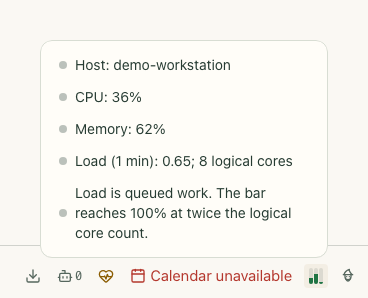
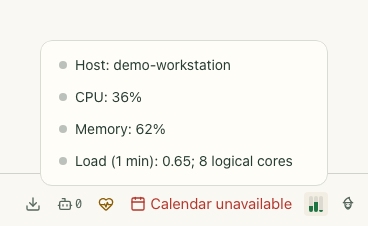
fix(resource): drop the load explainer bullet from the pane

diff --git a/plugins/heinzel-resource/docs/assets/screenshots/index.html b/plugins/heinzel-resource/docs/assets/screenshots/index.html
@@ -1,1 +1,1 @@
-<!doctype html><html lang="en"><meta charset="utf-8"><meta name="viewport" content="width=device-width"><title>heinzel-resource screenshots</title><style>body{font:16px/1.6 system-ui;margin:2rem;background:#faf8f3;color:#263b32}main{display:grid;grid-template-columns:repeat(auto-fit,minmax(min(100%,420px),1fr));gap:1rem}figure{margin:0;padding:1rem;background:white;border:1px solid #d8ddd3;border-radius:12px}img{width:100%;height:auto}figcaption{margin-top:.75rem}a:focus-visible{outline:3px solid #a64028}</style><h1>heinzel-resource</h1><p>Isolated demonstration profile · Core 0.9.16 · Review these captures before committing. Click an image to inspect it at full size.</p><main><figure><a href="resources-pane.png"><img src="resources-pane.png" alt="CPU, memory and scaled load in the expanded monitor — fictional demo workstation"></a><figcaption>UI · CPU, memory and scaled load in the expanded monitor — fictional demo workstation</figcaption></figure><figure><a href="today-resources.png"><img src="today-resources.png" alt="A quick CPU summary on Today, with three compact footer meters — demonstration values"></a><figcaption>UI · A quick CPU summary on Today, with three compact footer meters — demonstration values</figcaption></figure><figure><a href="phone-resources.png"><img src="phone-resources.png" alt="Read CPU, memory and queued load on a phone — fictional demo workstation"></a><figcaption>UI · Read CPU, memory and queued load on a phone — fictional demo workstation</figcaption></figure><figure><a href="cli-resources.png"><img src="cli-resources.png" alt="The same fictional CPU, memory and raw load measurements in the CLI"></a><figcaption>CLI · The same fictional CPU, memory and raw load measurements in the CLI</figcaption></figure><figure><a href="terminal-resources.png"><img src="terminal-resources.png" alt="Check CPU, memory, raw load and core count in the app terminal — fictional demo-workstation values"></a><figcaption>UI · Check CPU, memory, raw load and core count in the app terminal — fictional demo-workstation values</figcaption></figure><figure><a href="terminal-resources-json.png"><img src="terminal-resources-json.png" alt="Inspect the structured resource sample for automation in the app terminal — fictional demo-workstation data"></a><figcaption>UI · Inspect the structured resource sample for automation in the app terminal — fictional demo-workstation data</figcaption></figure></main></html>
+<!doctype html><html lang="en"><meta charset="utf-8"><meta name="viewport" content="width=device-width"><title>heinzel-resource screenshots</title><style>body{font:16px/1.6 system-ui;margin:2rem;background:#faf8f3;color:#263b32}main{display:grid;grid-template-columns:repeat(auto-fit,minmax(min(100%,420px),1fr));gap:1rem}figure{margin:0;padding:1rem;background:white;border:1px solid #d8ddd3;border-radius:12px}img{width:100%;height:auto}figcaption{margin-top:.75rem}a:focus-visible{outline:3px solid #a64028}</style><h1>heinzel-resource</h1><p>Isolated demonstration profile · Core 0.9.16 · Review these captures before committing. Click an image to inspect it at full size.</p><main><figure><a href="resources-pane.png"><img src="resources-pane.png" alt="CPU, memory and one-minute load with the core count in the expanded monitor — fictional demo workstation"></a><figcaption>UI · CPU, memory and one-minute load with the core count in the expanded monitor — fictional demo workstation</figcaption></figure><figure><a href="today-resources.png"><img src="today-resources.png" alt="A quick CPU summary on Today, with three compact footer meters — demonstration values"></a><figcaption>UI · A quick CPU summary on Today, with three compact footer meters — demonstration values</figcaption></figure><figure><a href="phone-resources.png"><img src="phone-resources.png" alt="Read CPU, memory and one-minute load on a phone — fictional demo workstation"></a><figcaption>UI · Read CPU, memory and one-minute load on a phone — fictional demo workstation</figcaption></figure><figure><a href="cli-resources.png"><img src="cli-resources.png" alt="Fictional CPU, memory, raw load and core count in the terminal"></a><figcaption>CLI · Fictional CPU, memory, raw load and core count in the terminal</figcaption></figure><figure><a href="cli-resources-json.png"><img src="cli-resources-json.png" alt="The fictional resource sample as JSON for automation"></a><figcaption>CLI · The fictional resource sample as JSON for automation</figcaption></figure></main></html>

diff --git a/plugins/heinzel-resource/tests/unit/resources_test.py b/plugins/heinzel-resource/tests/unit/resources_test.py
@@ -147,7 +147,7 @@ def test_visualizer_keeps_percentages_and_load_capacity_distinct(probe, cpu, loa
     assert [meter.value for meter in status.meters] == pytest.approx([cpu, 40, min(100, load * 5)])
     assert status.meters[2].tone == load_tone
     assert "workshop.local" in status.detail[0].text
-    assert any("twice the logical core count" in line.text for line in status.detail)
+    assert not any("queued work" in line.text or "twice the logical core count" in line.text for line in status.detail)
     assert overview(sample).value == f"CPU {cpu}%"
     assert sampling(ResourceService())[0].status.value == "up"
 

diff --git a/plugins/heinzel-resource/src/heinzel_resource/__init__.py b/plugins/heinzel-resource/src/heinzel_resource/__init__.py
@@ -153,7 +153,6 @@ def machine(sample: Resources) -> StatusItem:
             DetailLine(text=f"CPU: {_percent(sample.cpu_percent)}"),
             DetailLine(text=f"Memory: {_percent(sample.memory_percent)}"),
             DetailLine(text=f"Load (1 min): {load}; {sample.logical_cores or '?'} logical cores"),
-            DetailLine(text="Load is queued work. The bar reaches 100% at twice the logical core count."),
             *[DetailLine(text=problem[:80], tone="warn") for problem in sample.problems],
         ],
     )

diff --git a/plugins/heinzel-resource/docs/SCREENSHOT_STORY.md b/plugins/heinzel-resource/docs/SCREENSHOT_STORY.md
@@ -1,43 +1,36 @@
-## Audience
+## Audience and outcome
 
-Someone deciding whether to install System Resources who wants a quick picture of the computer running Heinzel and a way to retrieve the same measurements in a command or automation.
-
-## Outcome
-
-Show how a glance at Today and the footer leads to a useful expanded monitor, then show the underlying sample in the CLI and app terminal. The readings are a fictional demonstration, not a claim about the viewer’s machine.
+For someone deciding whether to install System Resources: see at a glance whether the machine running Heinzel is busy, open the footer monitor for context, and retrieve the same sample in a terminal or as JSON. The README says the plugin is included in the standard app (`README.md`; `pyproject.toml`, `[tool.heinzel.plugin]`).
 
 ## Scenes
 
-1. **Expanded resources:** In light appearance, open the footer’s computer-resources status to show CPU, memory, scaled load, hostname, and the explanation of the load bar. This is the central feature view.
-2. **Today at a glance:** In dark appearance, show the CPU widget together with the compact footer meters. This is a different useful state of the same Core UI, not a duplicate of the expanded monitor.
-3. **Phone monitor:** Open the resources detail at a narrow viewport to show that the same readings can be inspected on a phone. Review the result for meaningful mobile layout; reject it if it merely duplicates the desktop crop.
-4. **CLI sample:** Show `hz resource` as a native CLI result, with the fictional hostname, CPU, memory, raw one-minute load, and logical cores.
-5. **App terminal table:** Run `hz resource` in the app terminal to show an interactive route to the sample.
-6. **App terminal JSON:** Run `hz resource --json` in the app terminal to show the structured form useful for automation. These two terminal captures demonstrate different parameter cases of the single operation; neither is presented as feature UI.
+1. **Expanded monitor, light:** open the genuine footer contribution to see fictional CPU and memory percentages, one-minute load and logical cores together. The load meter is scaled; the detail line reports raw load.
+2. **Today and footer, dark:** show the fictional CPU summary in the Today widget alongside the three footer meters, demonstrating the useful at-a-glance state.
+3. **Phone monitor:** show the same genuine monitor at a narrow viewport, including its fictional host and measurements. This demonstrates the responsive flow rather than claiming another feature.
+4. **Native terminal table:** run `hz resource` to show the fictional hostname, CPU, memory, raw one-minute load and logical cores.
+5. **Native terminal JSON:** run `hz resource --json` to show the structured fictional sample for automation. This is a second parameter case of the same operation.
 
 ## Fictional fixtures
 
-The existing `docs/screenshot_fixture.py` replaces `ResourceService.sample` during explicit capture with `demo-workstation`, CPU 36%, memory 62%, one-minute load 0.65, eight logical cores, no problems, and a fixed UTC sample time. The scaled load meter is derived from that sample; it is not the raw load value. The plan uses this existing bootstrap and a matching browser time. No fixture file needs to be invented.
-
-Normal presentation fictionalization is explicitly permitted for verified owning-interpreter paths, which become `/demo-profile/.venv`, and for only the verified whole hostname detail in the genuine Doctor row, which becomes `demo-host`. These mappings change no SDK health status or remaining detail and establish no privacy acceptance. Unknown identities still fail, and independent review must inspect every image and transcript.
-
-## Privacy pitfalls
-
-The fixture substitutes resource readings, but other Core surfaces, Doctor output, paths, terminal transcripts, and surrounding profile data can still reveal real identities or machine details. Do not generalize the two permitted mappings to unverified paths, partial hostname matches, other rows, or other identities. Inspect every image and transcript independently before publication; fail on unknown identities. A dismissed Doctor banner is not proof that no sensitive detail remains elsewhere.
+The existing `docs/screenshot_fixture.py` replaces `ResourceService.sample` during explicit capture with a fictional `demo-workstation`: CPU 36%, memory 62%, one-minute load 0.65, eight logical cores, no problems, and a fixed UTC sample time. It launches the actual Heinzel entrypoint. The plan retains that bootstrap and fixed browser time; it does not introduce fixture files.
 
 ## Source-bound UI surface inventory
 
-- `pyproject.toml`, `[project.entry-points."heinzel.modules"]`, declares `resource = "heinzel_resource"`. The actual entrypoint in `src/heinzel_resource/__init__.py` constructs `module = Module("resource", ...)` and registers `ResourceService`.
-- `@module.operation(render=render, audience="everyday")` declares the single `resource` operation. `render` produces the CLI table; the README documents `hz resource` and `--json`. The app terminal can invoke this operation, but terminal output is not a resource feature view. No CLI-only status should be inferred from the absence of a Page or View.
-- `@module.status(source="resource", name="machine", refresh="2s", ... slots={"footer": True, "sidebar": False})` contributes a Core-rendered footer status with three meters and expandable detail. `@module.widget(source="resource", name="machine", refresh="1m", ...)` contributes the Core-rendered Today metric. These are genuine feature UI and support the first three scenes on the existing `/` route. Different states of that route qualify; no distinct plugin route is needed.
-- `@module.health` declares the `sampling` check, which can contribute to Core health/Doctor presentation. It reports degraded when the sample has problems and otherwise up; its hostname and detail must not be rewritten beyond the explicitly permitted verified Doctor-row mapping.
-- The declared module contains no plugin Page, View, navigation, channel, approval, setup, or info contribution. No external provider UI is declared. Generic Core operation and health surfaces still exist despite the absence of a Page or View; the supplied source does not establish additional plugin-specific routes or screens.
-- `README.md` says readings appear on Today and in the footer; `pyproject.toml` catalog metadata also calls out a resource visualizer. The supplied declarations establish the widget and footer detail, but do not independently declare a separate visualizer page. The plan therefore captures the evidenced Core surfaces. `web/build.py` is a frontend build helper, not a declared UI entrypoint; the supplied file inventory contains no frontend implementation establishing another screen. Catalog and README reference generated images that are not present in the supplied file inventory, so their appearance is not verified here.
+- `pyproject.toml`, `[project.entry-points."heinzel.modules"]`, declares `resource = "heinzel_resource"`; `src/heinzel_resource/__init__.py` defines its actual `module = Module(...)`. This is the only declared Heinzel module entrypoint in the provided project.
+- `@module.operation(render=render, audience="everyday")` declares the `resource` operation and its Rich table. The README documents `hz resource` and `--json`. Core may expose operations through generic surfaces, including its app terminal; the table and JSON are genuine terminal results, not invented plugin pages.
+- `@module.status(... slots={"footer": True, "sidebar": False})` contributes the footer item, meters and expandable detail. `@module.widget(...)` contributes the Today metric. These are genuine Core-rendered feature UI, even though this module declares no Page or View. The source supplies their content; exact Core layout and interaction must be confirmed during capture.
+- `@module.health` declares a machine-resources Doctor check. It is a health contribution, not a separate plugin feature screen. Core may display it in Doctor; the provided source does not establish its complete presentation.
+- The complete module declares no channels, approvals, setup flows, info contributions, plugin navigation routes, or external provider UI. No plugin-specific route is assumed. `/` is the supplied generic Core route used by the existing plan.
+- `pyproject.toml` catalog captions describe an expanded monitor with scaled load, while the existing plan's expanded caption emphasizes one-minute load and cores; the source supports both the scaled meter and raw detail. The catalog calls the CLI screenshot the same measurements, but the actual table also includes hostname and cores. `web/build.py` is a build helper, not a declared product UI entrypoint. The provided sources do not prove that any existing screenshot files are present or current.
+
+## Privacy pitfalls
+
+The fixture replaces plugin samples, but Core and other installed components may still expose real paths, hostnames, accounts, timestamps or other identity. Normal presentation fictionalization maps verified owning-interpreter paths to `/demo-profile/.venv`, and maps only the verified whole hostname detail in the genuine Doctor row to `demo-host`. These mappings change no SDK health status or remaining detail and establish no privacy acceptance. Unknown identities still fail. Independent review must inspect every image and transcript, including cropped and mobile captures, before publication.
 
 ## Acceptance criteria
 
-- Capture at least the two distinct genuine feature states: expanded footer detail in light appearance and Today plus footer in dark appearance, along with a useful CLI result. Applied appearance must be visible in the captured views.
-- Show the fixture’s values consistently, distinguish scaled load from raw load, and retain genuine Core rendering. Capture the two app-terminal parameter cases as terminal results, not feature views.
-- Reject forged HTML, duplicate captures, caption-only differences, invented routes or screens, and mobile captures that add no meaningful information. Captions identify demo data.
-- During explicit capture, verify the planned accessible controls and text against the actual running Core UI; the provided source does not prove their runtime accessibility or the resulting crops. Validate the resulting TOML with the capture tooling before use. No project code was executed for this proposal.
-- Independently inspect every image and transcript for privacy and factual accuracy, applying only the explicitly permitted verified mappings; unknown identities fail. Preserve health status and all other Doctor detail.
+- Capture the real Today widget and footer monitor in at least two useful feature UI scenes, with applied light and dark appearances, plus the phone state and both native terminal parameter cases. Confirm the expected UI interactions and responsive layout against the running Core before accepting captures.
+- Verify fixture values and distinguish scaled load from the raw 0.65 load; retain actual unavailable or health information if the capture differs rather than inventing a healthy result.
+- Reject duplicate captures, caption-only variations, terminal output represented as feature UI, and forged HTML. The phone capture must demonstrate a useful narrow-screen state.
+- Independently inspect every image and transcript for privacy and factual accuracy. Apply only the stated verified mappings; fail on unknown identities.
+- The TOML below was checked against the supplied field and action rules by inspection. Capture, runtime route behavior, and parser validation were not executed under the read-only, no-code-execution constraint.

diff --git a/plugins/heinzel-resource/docs/assets/screenshots/source-story.md b/plugins/heinzel-resource/docs/assets/screenshots/source-story.md
@@ -1,43 +1,36 @@
-## Audience
+## Audience and outcome
 
-Someone deciding whether to install System Resources who wants a quick picture of the computer running Heinzel and a way to retrieve the same measurements in a command or automation.
-
-## Outcome
-
-Show how a glance at Today and the footer leads to a useful expanded monitor, then show the underlying sample in the CLI and app terminal. The readings are a fictional demonstration, not a claim about the viewer’s machine.
+For someone deciding whether to install System Resources: see at a glance whether the machine running Heinzel is busy, open the footer monitor for context, and retrieve the same sample in a terminal or as JSON. The README says the plugin is included in the standard app (`README.md`; `pyproject.toml`, `[tool.heinzel.plugin]`).
 
 ## Scenes
 
-1. **Expanded resources:** In light appearance, open the footer’s computer-resources status to show CPU, memory, scaled load, hostname, and the explanation of the load bar. This is the central feature view.
-2. **Today at a glance:** In dark appearance, show the CPU widget together with the compact footer meters. This is a different useful state of the same Core UI, not a duplicate of the expanded monitor.
-3. **Phone monitor:** Open the resources detail at a narrow viewport to show that the same readings can be inspected on a phone. Review the result for meaningful mobile layout; reject it if it merely duplicates the desktop crop.
-4. **CLI sample:** Show `hz resource` as a native CLI result, with the fictional hostname, CPU, memory, raw one-minute load, and logical cores.
-5. **App terminal table:** Run `hz resource` in the app terminal to show an interactive route to the sample.
-6. **App terminal JSON:** Run `hz resource --json` in the app terminal to show the structured form useful for automation. These two terminal captures demonstrate different parameter cases of the single operation; neither is presented as feature UI.
+1. **Expanded monitor, light:** open the genuine footer contribution to see fictional CPU and memory percentages, one-minute load and logical cores together. The load meter is scaled; the detail line reports raw load.
+2. **Today and footer, dark:** show the fictional CPU summary in the Today widget alongside the three footer meters, demonstrating the useful at-a-glance state.
+3. **Phone monitor:** show the same genuine monitor at a narrow viewport, including its fictional host and measurements. This demonstrates the responsive flow rather than claiming another feature.
+4. **Native terminal table:** run `hz resource` to show the fictional hostname, CPU, memory, raw one-minute load and logical cores.
+5. **Native terminal JSON:** run `hz resource --json` to show the structured fictional sample for automation. This is a second parameter case of the same operation.
 
 ## Fictional fixtures
 
-The existing `docs/screenshot_fixture.py` replaces `ResourceService.sample` during explicit capture with `demo-workstation`, CPU 36%, memory 62%, one-minute load 0.65, eight logical cores, no problems, and a fixed UTC sample time. The scaled load meter is derived from that sample; it is not the raw load value. The plan uses this existing bootstrap and a matching browser time. No fixture file needs to be invented.
-
-Normal presentation fictionalization is explicitly permitted for verified owning-interpreter paths, which become `/demo-profile/.venv`, and for only the verified whole hostname detail in the genuine Doctor row, which becomes `demo-host`. These mappings change no SDK health status or remaining detail and establish no privacy acceptance. Unknown identities still fail, and independent review must inspect every image and transcript.
-
-## Privacy pitfalls
-
-The fixture substitutes resource readings, but other Core surfaces, Doctor output, paths, terminal transcripts, and surrounding profile data can still reveal real identities or machine details. Do not generalize the two permitted mappings to unverified paths, partial hostname matches, other rows, or other identities. Inspect every image and transcript independently before publication; fail on unknown identities. A dismissed Doctor banner is not proof that no sensitive detail remains elsewhere.
+The existing `docs/screenshot_fixture.py` replaces `ResourceService.sample` during explicit capture with a fictional `demo-workstation`: CPU 36%, memory 62%, one-minute load 0.65, eight logical cores, no problems, and a fixed UTC sample time. It launches the actual Heinzel entrypoint. The plan retains that bootstrap and fixed browser time; it does not introduce fixture files.
 
 ## Source-bound UI surface inventory
 
-- `pyproject.toml`, `[project.entry-points."heinzel.modules"]`, declares `resource = "heinzel_resource"`. The actual entrypoint in `src/heinzel_resource/__init__.py` constructs `module = Module("resource", ...)` and registers `ResourceService`.
-- `@module.operation(render=render, audience="everyday")` declares the single `resource` operation. `render` produces the CLI table; the README documents `hz resource` and `--json`. The app terminal can invoke this operation, but terminal output is not a resource feature view. No CLI-only status should be inferred from the absence of a Page or View.
-- `@module.status(source="resource", name="machine", refresh="2s", ... slots={"footer": True, "sidebar": False})` contributes a Core-rendered footer status with three meters and expandable detail. `@module.widget(source="resource", name="machine", refresh="1m", ...)` contributes the Core-rendered Today metric. These are genuine feature UI and support the first three scenes on the existing `/` route. Different states of that route qualify; no distinct plugin route is needed.
-- `@module.health` declares the `sampling` check, which can contribute to Core health/Doctor presentation. It reports degraded when the sample has problems and otherwise up; its hostname and detail must not be rewritten beyond the explicitly permitted verified Doctor-row mapping.
-- The declared module contains no plugin Page, View, navigation, channel, approval, setup, or info contribution. No external provider UI is declared. Generic Core operation and health surfaces still exist despite the absence of a Page or View; the supplied source does not establish additional plugin-specific routes or screens.
-- `README.md` says readings appear on Today and in the footer; `pyproject.toml` catalog metadata also calls out a resource visualizer. The supplied declarations establish the widget and footer detail, but do not independently declare a separate visualizer page. The plan therefore captures the evidenced Core surfaces. `web/build.py` is a frontend build helper, not a declared UI entrypoint; the supplied file inventory contains no frontend implementation establishing another screen. Catalog and README reference generated images that are not present in the supplied file inventory, so their appearance is not verified here.
+- `pyproject.toml`, `[project.entry-points."heinzel.modules"]`, declares `resource = "heinzel_resource"`; `src/heinzel_resource/__init__.py` defines its actual `module = Module(...)`. This is the only declared Heinzel module entrypoint in the provided project.
+- `@module.operation(render=render, audience="everyday")` declares the `resource` operation and its Rich table. The README documents `hz resource` and `--json`. Core may expose operations through generic surfaces, including its app terminal; the table and JSON are genuine terminal results, not invented plugin pages.
+- `@module.status(... slots={"footer": True, "sidebar": False})` contributes the footer item, meters and expandable detail. `@module.widget(...)` contributes the Today metric. These are genuine Core-rendered feature UI, even though this module declares no Page or View. The source supplies their content; exact Core layout and interaction must be confirmed during capture.
+- `@module.health` declares a machine-resources Doctor check. It is a health contribution, not a separate plugin feature screen. Core may display it in Doctor; the provided source does not establish its complete presentation.
+- The complete module declares no channels, approvals, setup flows, info contributions, plugin navigation routes, or external provider UI. No plugin-specific route is assumed. `/` is the supplied generic Core route used by the existing plan.
+- `pyproject.toml` catalog captions describe an expanded monitor with scaled load, while the existing plan's expanded caption emphasizes one-minute load and cores; the source supports both the scaled meter and raw detail. The catalog calls the CLI screenshot the same measurements, but the actual table also includes hostname and cores. `web/build.py` is a build helper, not a declared product UI entrypoint. The provided sources do not prove that any existing screenshot files are present or current.
+
+## Privacy pitfalls
+
+The fixture replaces plugin samples, but Core and other installed components may still expose real paths, hostnames, accounts, timestamps or other identity. Normal presentation fictionalization maps verified owning-interpreter paths to `/demo-profile/.venv`, and maps only the verified whole hostname detail in the genuine Doctor row to `demo-host`. These mappings change no SDK health status or remaining detail and establish no privacy acceptance. Unknown identities still fail. Independent review must inspect every image and transcript, including cropped and mobile captures, before publication.
 
 ## Acceptance criteria
 
-- Capture at least the two distinct genuine feature states: expanded footer detail in light appearance and Today plus footer in dark appearance, along with a useful CLI result. Applied appearance must be visible in the captured views.
-- Show the fixture’s values consistently, distinguish scaled load from raw load, and retain genuine Core rendering. Capture the two app-terminal parameter cases as terminal results, not feature views.
-- Reject forged HTML, duplicate captures, caption-only differences, invented routes or screens, and mobile captures that add no meaningful information. Captions identify demo data.
-- During explicit capture, verify the planned accessible controls and text against the actual running Core UI; the provided source does not prove their runtime accessibility or the resulting crops. Validate the resulting TOML with the capture tooling before use. No project code was executed for this proposal.
-- Independently inspect every image and transcript for privacy and factual accuracy, applying only the explicitly permitted verified mappings; unknown identities fail. Preserve health status and all other Doctor detail.
+- Capture the real Today widget and footer monitor in at least two useful feature UI scenes, with applied light and dark appearances, plus the phone state and both native terminal parameter cases. Confirm the expected UI interactions and responsive layout against the running Core before accepting captures.
+- Verify fixture values and distinguish scaled load from the raw 0.65 load; retain actual unavailable or health information if the capture differs rather than inventing a healthy result.
+- Reject duplicate captures, caption-only variations, terminal output represented as feature UI, and forged HTML. The phone capture must demonstrate a useful narrow-screen state.
+- Independently inspect every image and transcript for privacy and factual accuracy. Apply only the stated verified mappings; fail on unknown identities.
+- The TOML below was checked against the supplied field and action rules by inspection. Capture, runtime route behavior, and parser validation were not executed under the read-only, no-code-execution constraint.

diff --git a/plugins/heinzel-resource/README.md b/plugins/heinzel-resource/README.md
@@ -11,32 +11,28 @@ hz resource                # CPU, memory and load now; --json for agents
 <!-- screenshots:start -->
 ## Screenshots
 
-<img src="docs/assets/screenshots/resources-pane.png" alt="CPU, memory and scaled load in the expanded monitor — fictional demo workstation" width="960">
+<img src="docs/assets/screenshots/resources-pane.png" alt="CPU, memory and one-minute load with the core count in the expanded monitor — fictional demo workstation" width="960">
 
-CPU, memory and scaled load in the expanded monitor — fictional demo workstation
+CPU, memory and one-minute load with the core count in the expanded monitor — fictional demo workstation
 
 <img src="docs/assets/screenshots/today-resources.png" alt="A quick CPU summary on Today, with three compact footer meters — demonstration values" width="960">
 
 A quick CPU summary on Today, with three compact footer meters — demonstration values
 
-<img src="docs/assets/screenshots/phone-resources.png" alt="Read CPU, memory and queued load on a phone — fictional demo workstation" width="960">
+<img src="docs/assets/screenshots/phone-resources.png" alt="Read CPU, memory and one-minute load on a phone — fictional demo workstation" width="960">
 
-Read CPU, memory and queued load on a phone — fictional demo workstation
-
-<img src="docs/assets/screenshots/terminal-resources.png" alt="Check CPU, memory, raw load and core count in the app terminal — fictional demo-workstation values" width="960">
-
-Check CPU, memory, raw load and core count in the app terminal — fictional demo-workstation values
-
-<img src="docs/assets/screenshots/terminal-resources-json.png" alt="Inspect the structured resource sample for automation in the app terminal — fictional demo-workstation data" width="960">
-
-Inspect the structured resource sample for automation in the app terminal — fictional demo-workstation data
+Read CPU, memory and one-minute load on a phone — fictional demo workstation
 
 <details>
 <summary>Command line</summary>
 
-<img src="docs/assets/screenshots/cli-resources.png" alt="The same fictional CPU, memory and raw load measurements in the CLI" width="960">
+<img src="docs/assets/screenshots/cli-resources.png" alt="Fictional CPU, memory, raw load and core count in the terminal" width="960">
 
-The same fictional CPU, memory and raw load measurements in the CLI
+Fictional CPU, memory, raw load and core count in the terminal
+
+<img src="docs/assets/screenshots/cli-resources-json.png" alt="The fictional resource sample as JSON for automation" width="960">
+
+The fictional resource sample as JSON for automation
 
 </details>
 
